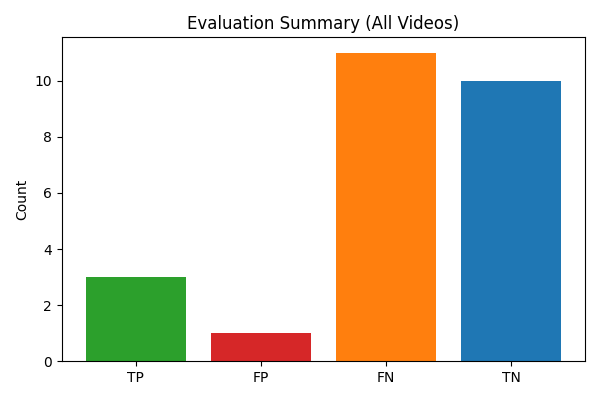
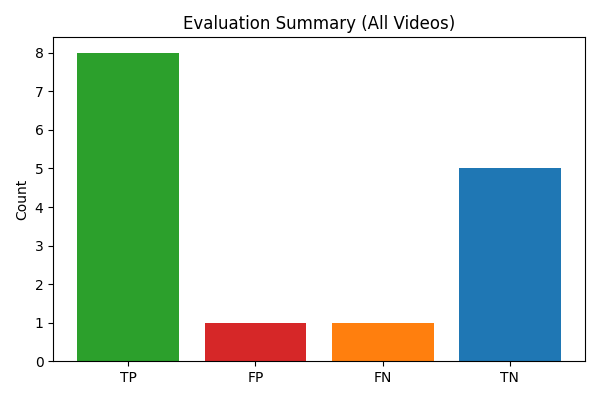
test.py 최최최종 버전

diff --git a/settings/config.py b/settings/config.py
@@ -69,29 +69,29 @@ REID_MIN_SIZE_SIMILARITY = _local_or_default("REID_MIN_SIZE_SIMILARITY", 0.55)
 
 WEAPON_LABELS = _local_or_default("WEAPON_LABELS", {"knife", "baseball bat"})
 PERSON_NEAR_AREA_THRESHOLD = 0.7
-PERSON_NEAR_REQUIRED_TIME_SECONDS = 1.0
+PERSON_NEAR_REQUIRED_TIME_SECONDS = 0.5
 PERSON_NEAR_MIN_CONFIDENCE = 0.35
 PERSON_NEAR_COOLDOWN_SECONDS = 3.0
 PERSON_NEAR_HEAD_AREA_THRESHOLD = _local_or_default("PERSON_NEAR_HEAD_AREA_THRESHOLD", 0.30)
 PERSON_NEAR_HEAD_KEYPOINT_CONFIDENCE = _local_or_default("PERSON_NEAR_HEAD_KEYPOINT_CONFIDENCE", 0.35)
 PERSON_NEAR_MIN_VISIBLE_FACE_POINTS = _local_or_default("PERSON_NEAR_MIN_VISIBLE_FACE_POINTS", 3)
-DOOR_LOCK_ROI_X_RATIO = 0.30
+DOOR_LOCK_ROI_X_RATIO = 0.21
 DOOR_LOCK_ROI_Y_RATIO = 0.65
-DOOR_LOCK_ROI_WIDTH_RATIO = 0.28
-DOOR_LOCK_ROI_HEIGHT_RATIO = 0.23
-DOOR_LOCK_CONTACT_ROI_WIDTH_RATIO = 0.50
-DOOR_LOCK_CONTACT_ROI_HEIGHT_RATIO = 0.25
-DOOR_LOCK_WRIST_CONFIDENCE_THRESHOLD = 0.5
-DOOR_LOCK_REQUIRED_SECONDS = 1.5
-DOOR_LOCK_MISS_GRACE_SECONDS = 1.0
+DOOR_LOCK_ROI_WIDTH_RATIO = 0.32
+DOOR_LOCK_ROI_HEIGHT_RATIO = 0.26
+DOOR_LOCK_CONTACT_ROI_WIDTH_RATIO = 1
+DOOR_LOCK_CONTACT_ROI_HEIGHT_RATIO = 1
+DOOR_LOCK_WRIST_CONFIDENCE_THRESHOLD = 0.4
+DOOR_LOCK_REQUIRED_SECONDS = 1.2
+DOOR_LOCK_MISS_GRACE_SECONDS = 0.3
 DOOR_LOCK_MOVEMENT_HISTORY_SIZE = 20
 DOOR_LOCK_DECAY_FRAMES = 2
 DOOR_LOCK_MOVEMENT_DELTA_THRESHOLD = 25
-DOOR_LOCK_MIN_PERSON_HEIGHT_RATIO = 0.62
-DOOR_LOCK_MIN_SHOULDER_WIDTH_RATIO = 0.26
+DOOR_LOCK_MIN_PERSON_HEIGHT_RATIO = 0.60
+DOOR_LOCK_MIN_SHOULDER_WIDTH_RATIO = 0.23
 DOOR_LOCK_HAND_EXTENSION_RATIO = 0.45
-DOOR_LOCK_WRIST_DISTANCE_SHOULDER_RATIO = 0.22
-DOOR_LOCK_MIN_WRIST_DISTANCE_PIXELS = 12
+DOOR_LOCK_WRIST_DISTANCE_SHOULDER_RATIO = 0.2
+DOOR_LOCK_MIN_WRIST_DISTANCE_PIXELS = 10
 DOOR_LOCK_COOLDOWN_SECONDS = 3.0
 
 POSE_CONNECTIONS = [

diff --git a/utils/detection_gate.py b/utils/detection_gate.py
@@ -11,6 +11,7 @@ class DetectionGate:
         self.cooldown_frames = cooldown_frames
         self.histories = {}
         self.cooldowns = {}
+        self.last_qualified = {}
 
     def update(self, detections):
 
@@ -32,13 +33,17 @@ class DetectionGate:
             prev = qualified.get(label)
             if prev is None or confidence > prev["confidence"]:
                 qualified[label] = det
+                self.last_qualified[label] = det
 
         for label in set(self.histories) | set(qualified):
             history = self.histories.setdefault(label, deque(maxlen=self.window_size))
             history.append(1 if label in qualified else 0)
 
             if sum(history) >= self.required_hits and self.cooldowns.get(label, 0) == 0:
-                triggered.append(qualified[label])
+                det = qualified.get(label) or self.last_qualified.get(label)
+                if det is None:
+                    continue
+                triggered.append(det)
                 self.cooldowns[label] = self.cooldown_frames
                 history.clear()
 

diff --git a/test.py b/test.py
@@ -24,6 +24,7 @@ RESULT_HOLD_MS = 800
 SKIP_KEY = ord("s")
 SUMMARY_PLOT_PATH = ROOT / "test_data" / "summary_metrics.png"
 ASYNC_PLAYBACK = True
+EVAL_PERSON_NEAR_HEAD_AREA_THRESHOLD = 0.18
 
 IMPLEMENTED_WARNINGS = {
     EVENT_WEAPON,
@@ -40,7 +41,12 @@ class EvaluationRuntime:
         pass
 
     def create_pipeline(self):
-        return create_pipeline()
+        pipeline = create_pipeline()
+        # Make face-near overlays more likely in evaluation videos.
+        pipeline["person_proximity_detector"].head_area_threshold = (
+            EVAL_PERSON_NEAR_HEAD_AREA_THRESHOLD
+        )
+        return pipeline
 
 
 def load_dataset(labels_path=LABELS_PATH):
